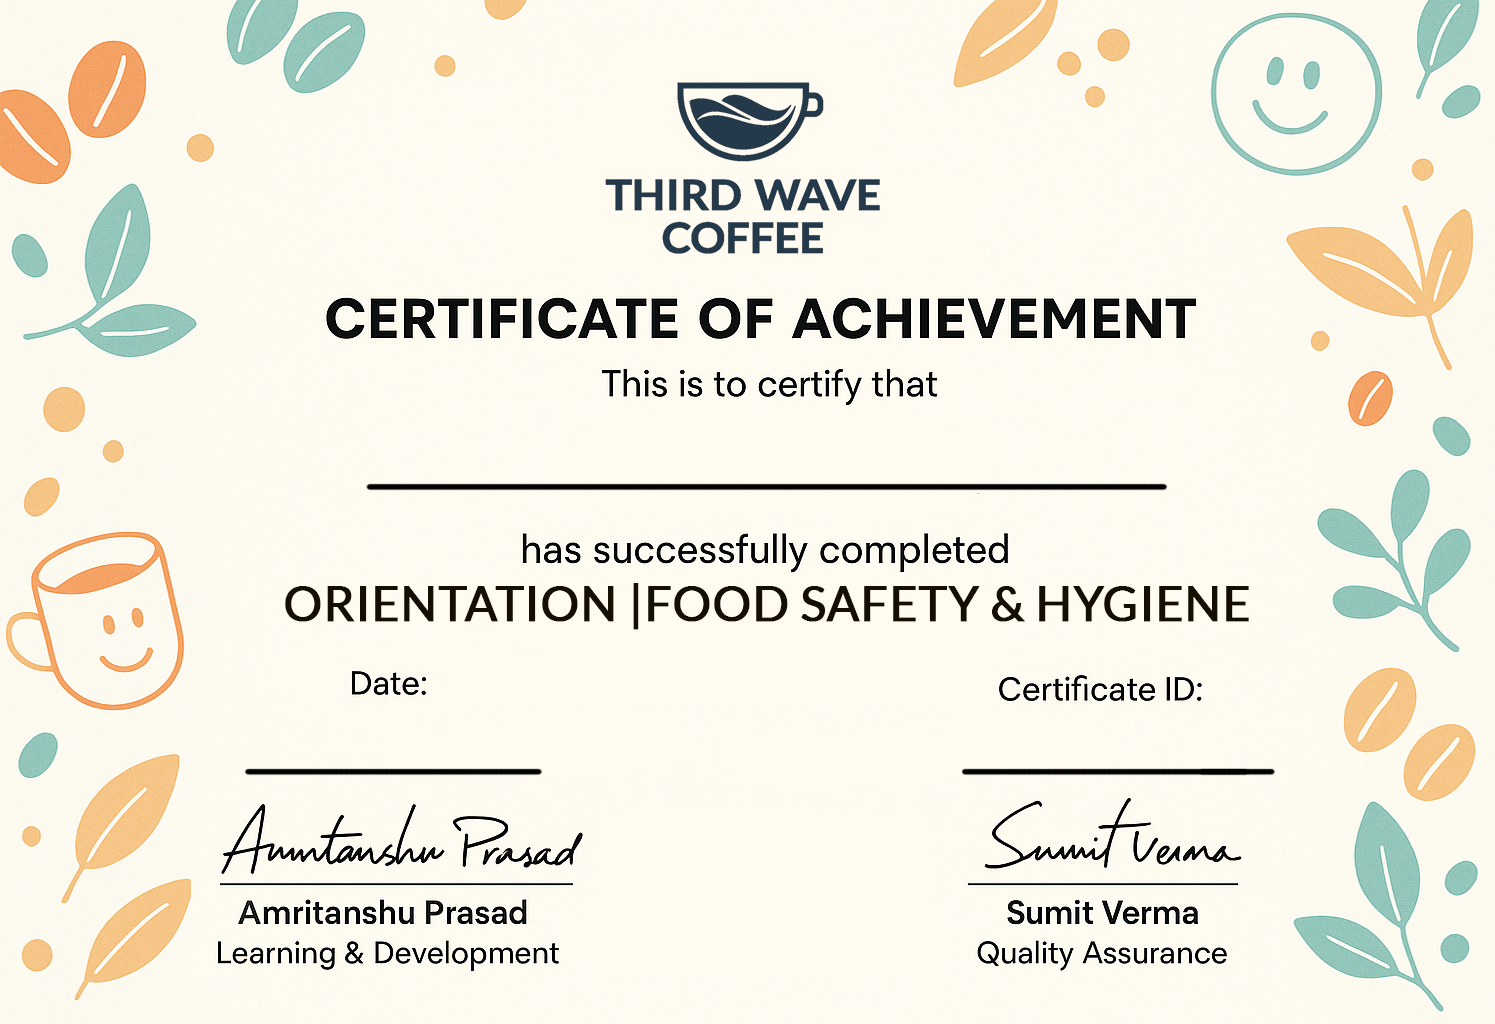
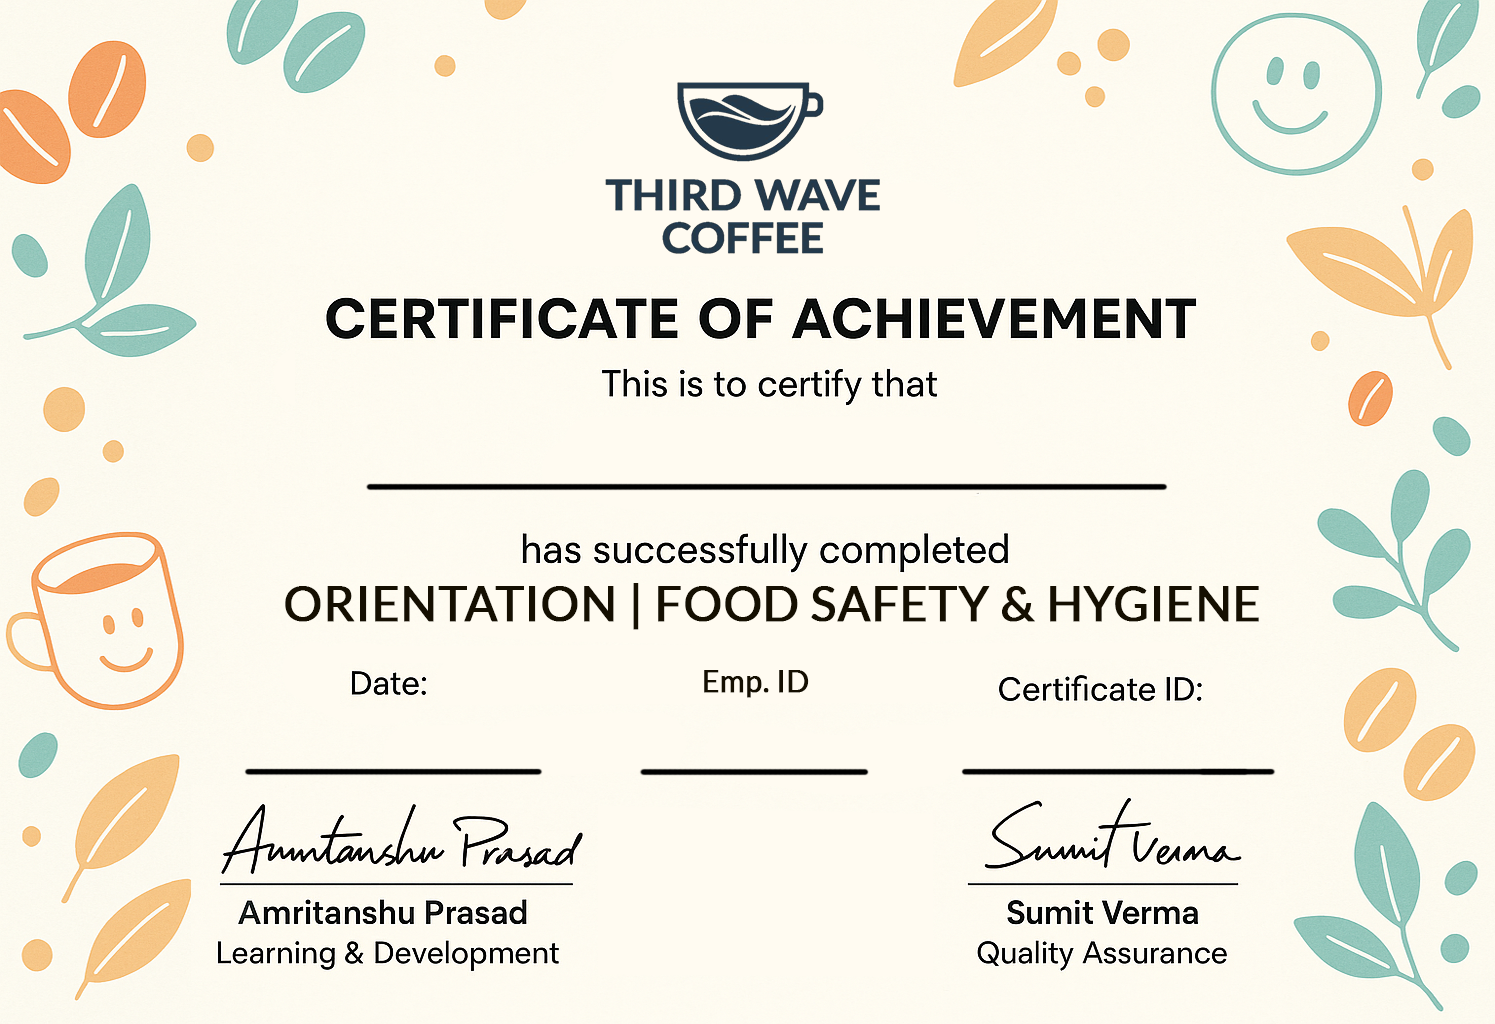
Add files via upload

Changed region(s): [[0.4308, 0.5625, 0.8308, 0.625], [0.4308, 0.75, 0.5846, 0.7812], [0.4615, 0.6562, 0.5538, 0.6875]]

diff --git a/index.html b/index.html
@@ -41,8 +41,8 @@
 </head>
 <body>
 
-  <h2>Your Certificate is Ready!</h2>
-  <button onclick="generateCertificate()">Preview & Download Certificate</button>
+  <h2>Download Your Certificate</h2>
+  <button onclick="generateCertificate()">Download Certificate</button>
 
   <canvas id="certificateCanvas" width="1121" height="768"></canvas>
 
@@ -73,9 +73,11 @@
 
         ctx.font = 'bold 22px Arial';
         ctx.textAlign = 'left';
-        ctx.fillText(date, 230, 562);
+        ctx.fillText(date, 135, 562);
+        ctx.textAlign = 'center';
+        ctx.fillText(empID, canvas.width / 2, 562);
         ctx.textAlign = 'right';
-        ctx.fillText(certNo, 910, 562);
+        ctx.fillText(certNo, 985, 562);
 
         const { jsPDF } = window.jspdf;
         const imgData = canvas.toDataURL('image/png');
@@ -85,24 +87,7 @@
           format: [canvas.width, canvas.height]
         });
         pdf.addImage(imgData, 'PNG', 0, 0, canvas.width, canvas.height);
-
-        const blob = pdf.output('blob');
-        const url = URL.createObjectURL(blob);
-
-        const html = `
-          <html>
-            <head><title>Your Certificate</title></head>
-            <body style='margin:0;display:flex;flex-direction:column;align-items:center;justify-content:center;height:100vh;background:#f9f9f9;'>
-              <iframe src="${url}" width="100%" height="80%" style="border:none;"></iframe>
-              <a href="${url}" download="${name}_Certificate.pdf" style="margin-top:20px;padding:12px 20px;background:#1f4e79;color:white;border-radius:6px;text-decoration:none;font-family:Arial;'>Download PDF</a>
-            </body>
-          </html>
-        `;
-
-        const preview = window.open();
-        preview.document.open();
-        preview.document.write(html);
-        preview.document.close();
+        pdf.save(name + "_Certificate.pdf");
       };
     }
   </script>
